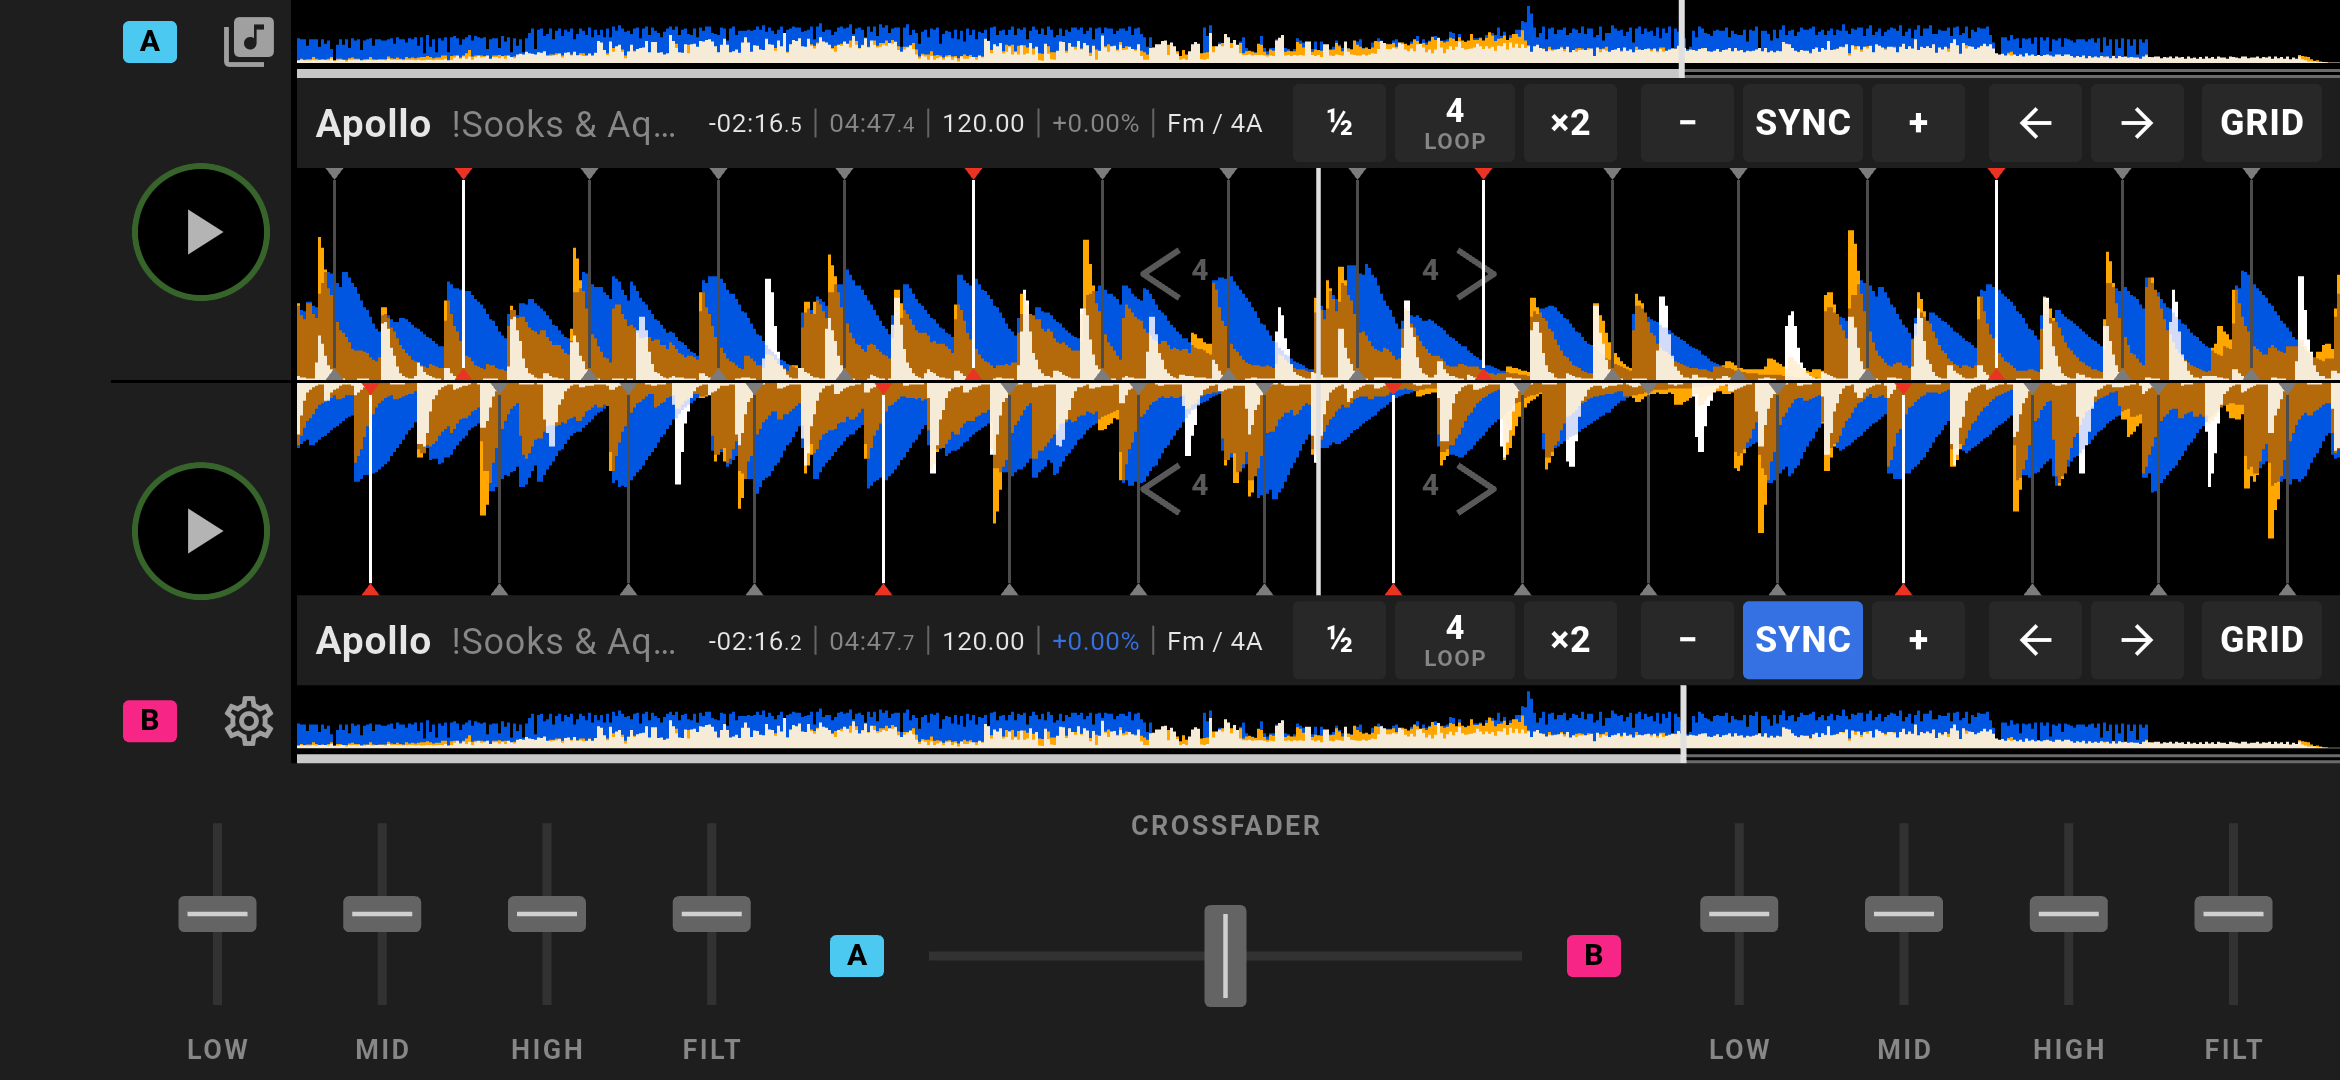
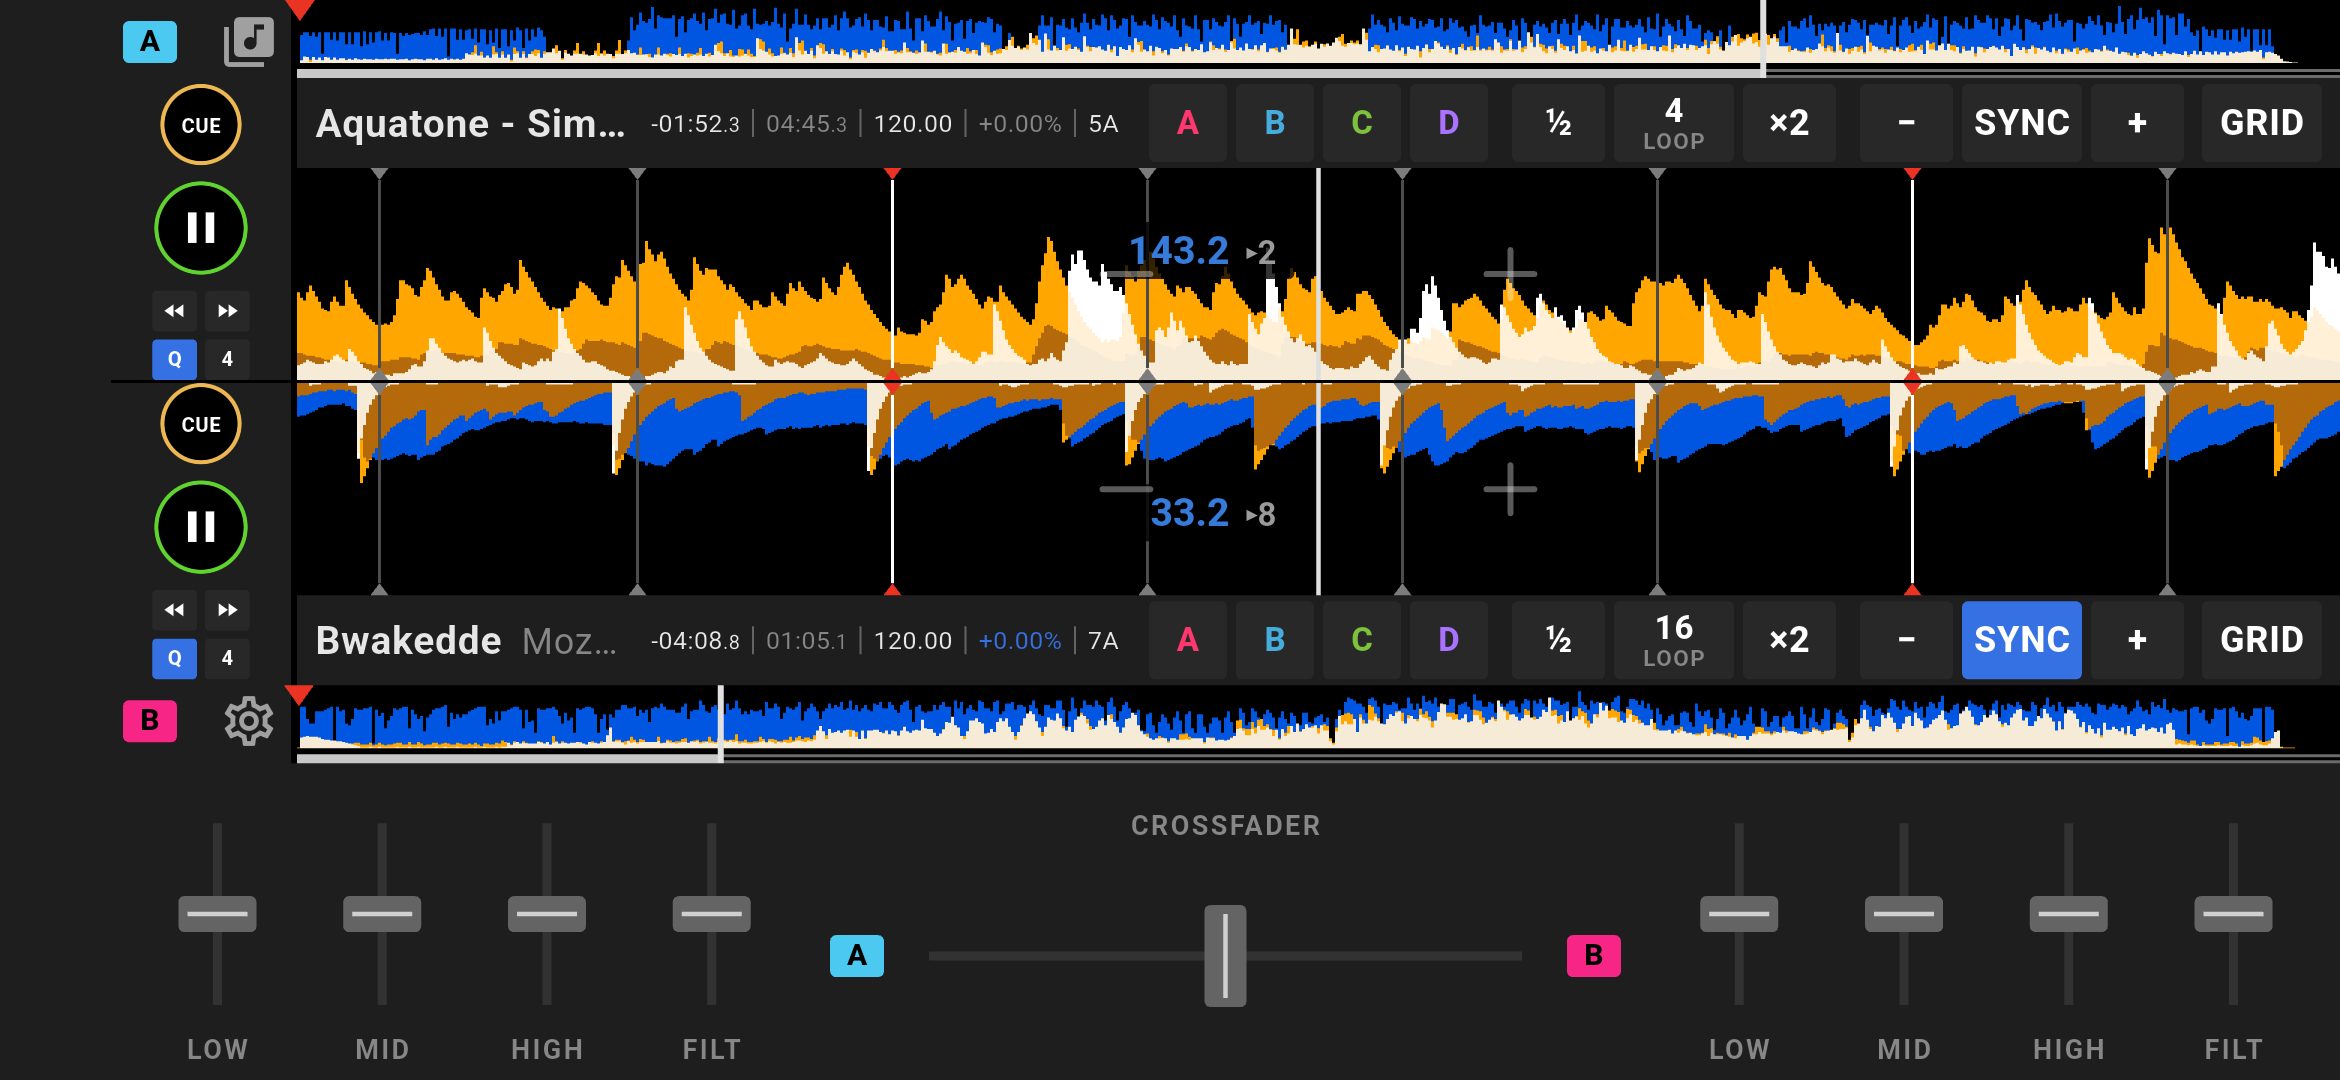
README: fresh screenshots of the current UI
Replace the deck and mixer screenshots with captures of this build: two
synced decks on the external mixer (bar counters, the transport rail
with beat jump and quantize, no device chip), and the same decks on the
internal mixer. The separate rail screenshot is no longer needed.

diff --git a/README.md b/README.md
@@ -29,9 +29,7 @@ USB out to an external mixer such as the Teenage Engineering EP-136 K.O. Sidekic
 > changes listed under [What this fork adds](#what-this-fork-adds). Build from
 > this branch to get them.
 
-![Two decks with 3-band waveforms meeting at the centre line, hot cues set](screenshots/decks.png)
-
-![The transport rail (CUE, PLAY, beat jump, quantize), the bar / phrase counter and a "check grid" warning](screenshots/rail.png)
+![Two synced decks on an external mixer: 3-band waveforms meeting at the centre line, bar / phrase counters, transport rails with CUE, PLAY, beat jump and quantize](screenshots/decks.png)
 
 ![The restyled internal mixer](screenshots/mixer.png)
 
